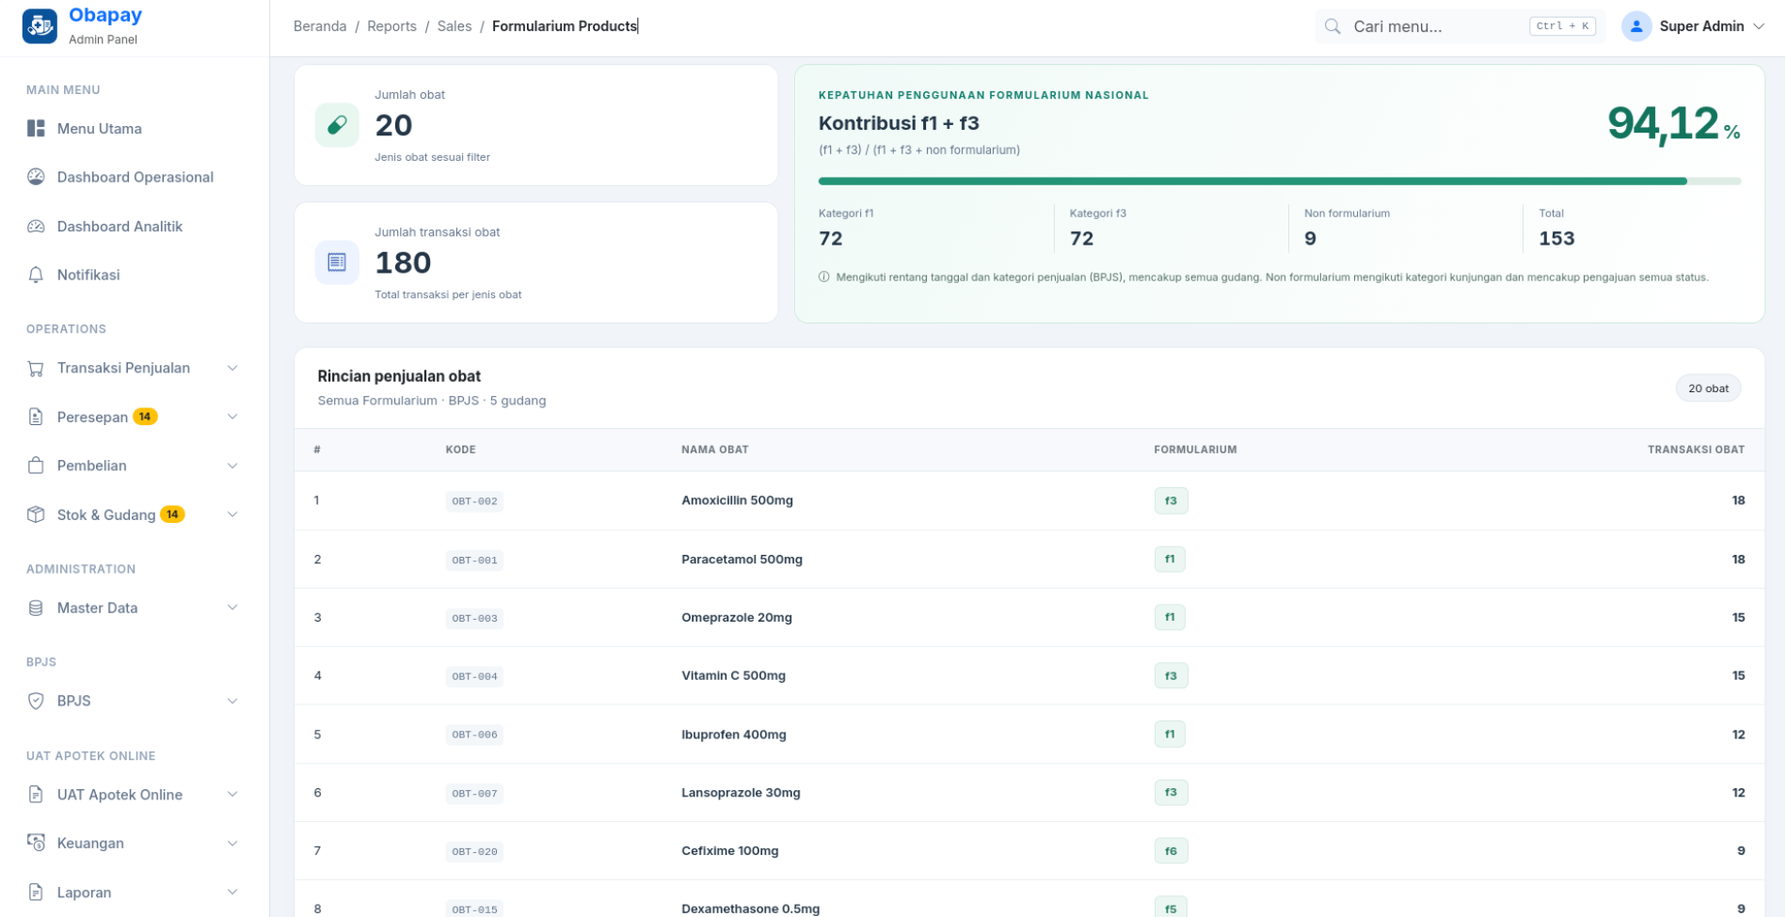
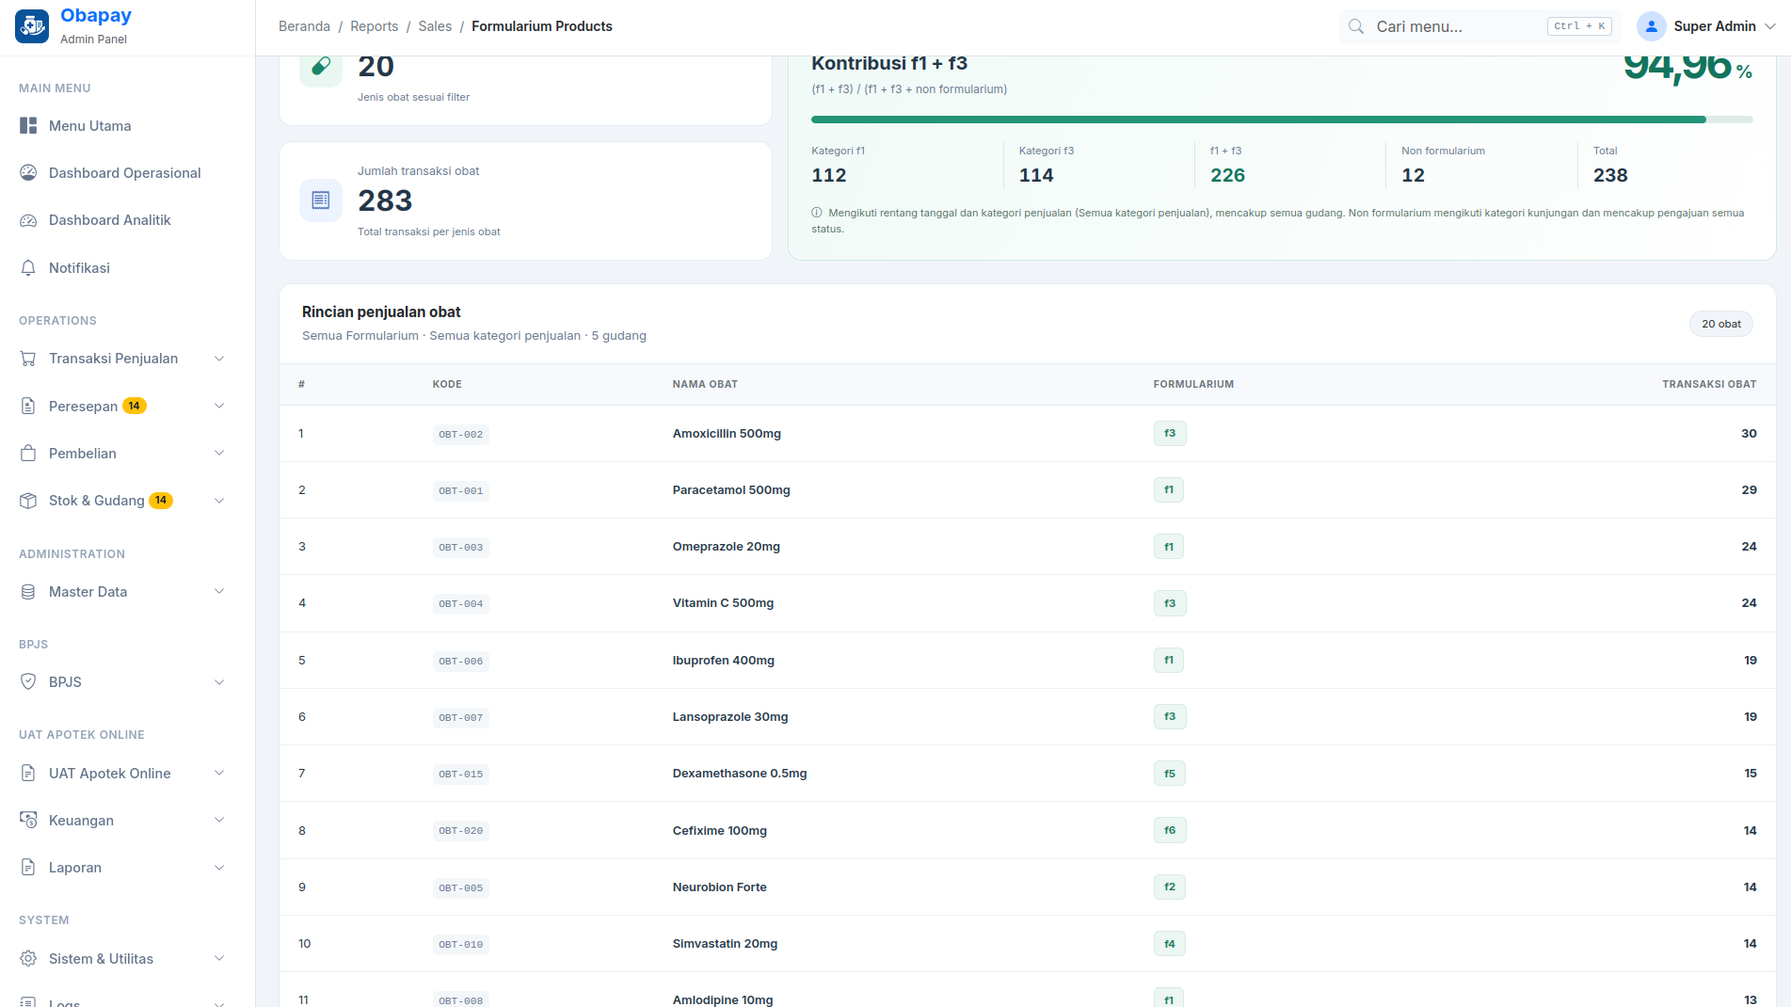
update presentasi

diff --git a/js/config.js b/js/config.js
@@ -30,7 +30,7 @@ const PRESENTER_NOTES = {
     22: "Laporan Resep BPJS & Evaluasi Plafon Obat Kronis: Mengevaluasi kepatuhan nilai nominal resep BPJS terhadap plafon anjuran Rp 35.000 dengan memisahkan tagihan obat kronis (Rp 2,02 Jt) dan non-kronis (Rp 6,98 Jt). Dashboard mendeteksi 75 resep over-plafon dengan total kelebihan biaya Rp 4,36 Jt serta merangkum performa peresepan per DPJP untuk kendali mutu INA-CBGs.",
     23: "Laporan Kepatuhan & Penjualan Obat Formularium: Contoh periode 1–30 November 2026 dengan kategori BPJS, semua formularium, dan 5 gudang menampilkan 20 jenis obat serta 180 transaksi obat. Panel kepatuhan menggunakan rumus (F1 + F3) / (F1 + F3 + non formularium): (72 + 72) / (72 + 72 + 9) = 94,12%. Total 153 pada panel kepatuhan berbeda dari ringkasan 180 transaksi obat. Panel kepatuhan mengikuti periode dan kategori penjualan serta mencakup semua gudang; non formularium mengikuti kategori kunjungan dan mencakup pengajuan semua status. Tabel merinci kode, nama, formularium, dan transaksi tiap obat, dilengkapi cetak dan ekspor Excel.",
     24: "Laporan Response Time Antrian Pasien & SPM: Mengukur kepatuhan SPM Kemenkes dengan rata-rata total waktu 35.4 menit. Resep non-racik tercapai dalam 24.3 menit (target ≤ 30 menit, kepatuhan 83.3%) dan racikan 50.1 menit (target ≤ 60 menit, kepatuhan 66.7%), lengkap dengan analisis titik bottleneck di ruang peracikan.",
-    25: "Evaluasi Penggunaan Antibiotik (Metode WHO ATC/DDD & PPRA): Menguantifikasi penggunaan antibiotik rumah sakit menggunakan standar baku WHO Defined Daily Dose (DDD) per 100 hari rawat inap (patient-days). Mendukung stratifikasi kategori AWaRe (Access, Watch, Reserve) dan program pengendalian resistensi antimikroba (PPRA) untuk mencegah lonjakan kuman kebal obat dan memenuhi indikator akreditasi Starkes.",
+    25: "Laporan DDD Antibiotika: Laporan ini membantu rumah sakit memantau seberapa banyak antibiotik digunakan oleh pasien rawat inap agar pemakaiannya tetap bijak dan aman. Nilai pada layar dihitung otomatis oleh sistem: (1) Mengambil pasien yang pulang pada periode yang dipilih, yaitu 15 pasien dengan total 120 hari rawat inap (LOS) di mana lama rawat dihitung 1 kali per pasien agar tidak berlipat ganda; (2) Menghitung jumlah obat bersih yang dikonsumsi setelah dikurangi retur; (3) Nilai 25,62 per 100 hari rawat berarti dalam setiap 100 hari pasien menginap, rata-rata ada 25–26 hari pasien mengonsumsi dosis harian antibiotik. Informasi ini siap dicetak atau diekspor ke Excel untuk laporan mutu dan komite PPRA.",
     26: "Integrasi ERM & Single Sign-On (SSO): Dokter cukup mengklik tombol 'Resep' pada ERM, sistem mengirimkan identitas dokter, pasien, dan kunjungan secara aman. ObaPay memvalidasi akses dan menyinkronkan data secara otomatis, lalu dokter langsung diarahkan ke form E-Resep dengan konteks yang sudah tersedia tanpa perlu login ulang. Solusi ini memberikan manfaat utama Single Sign-On (SSO), Zero Double Entry, Patient Context Safety, dan Seamless Workflow untuk mempercepat pelayanan rawat jalan.",
     27: "Penjelasan API Peresepan (Interoperabilitas Dua Arah): ObaPay menyediakan konektivitas API yang memungkinkan ERM menyinkronkan data resep lengkap dengan obat dan racikan, memantau progres status pelayanan farmasi secara real-time, mengelola duplikasi resep serta pembatalan dengan otorisasi aman, dan mengakses katalog master obat beserta sisa stok dan informasi DDD. Dilengkapi keamanan RESTful API autentikasi Laravel Sanctum, format data JSON terstruktur, dan arsitektur siap interoperabilitas FHIR / SATUSEHAT.",
     28: "“Mari kita diskusikan bersama: di titik mana proses saat ini paling sering mengalami hambatan, data apa yang paling sulit diperoleh dengan cepat, dan proses apa yang paling layak menjadi prioritas transformasi digital kita?”"
@@ -366,13 +366,13 @@ const SCREENSHOT_CONFIG = [
         "key": "slide24-ddd-antibiotika",
         "slide": 25,
         "file": "slide24-ddd-antibiotika.png",
-        "title": "Evaluasi DDD Antibiotika (Metode WHO & PPRA)",
-        "menu": "Master Data Obat (DDD) & Laporan PPRA",
-        "route": "/medicines",
+        "title": "Laporan DDD Antibiotika (Metode WHO & PPRA)",
+        "menu": "Laporan → Penjualan → DDD Antibiotika",
+        "route": "/reports/sales/antibiotic-ddd",
         "guideBadge": "PPRA & WHO DDD",
         "guideIcon": "pill",
-        "guideTarget": "Master DDD Antibiotik & Evaluasi Konsumsi PPRA",
-        "guideInst": "Ambil screenshot master data obat dengan kolom nilai DDD (Defined Daily Dose) WHO dan laporan konsumsi antibiotik per kategori AWaRe."
+        "guideTarget": "Laporan DDD Antibiotika Rawat Inap (Metode WHO)",
+        "guideInst": "Tampilan laporan DDD Antibiotika dengan filter periode tanggal pulang, total kunjungan (15), total LOS (120 hari), DDD per 100 hari rawat (25,62), dan tabel per item obat."
     }
 ];
 

diff --git a/slides/slide25.html b/slides/slide25.html
@@ -1,8 +1,8 @@
 <div class="slide-content-wrap" data-slide="25">
     <wave-background variant="1"></wave-background>
     <slide-top-meta slide="25" badge="Pengendalian Resistensi: PPRA" icon="pill" speaker="Farmasi Klinis & Mutu RS"></slide-top-meta>
-    <h1 class="slide-heading">Evaluasi Penggunaan Antibiotik: Metode WHO ATC/DDD</h1>
-    <p class="slide-lead">Kuantifikasi penggunaan antibiotik secara terstandar internasional untuk mendukung program PPRA, mencegah resistensi kuman, dan memenuhi standar akreditasi Starkes.</p>
+    <h1 class="slide-heading">Evaluasi Penggunaan Antibiotik (Metode WHO DDD)</h1>
+    <p class="slide-lead">Memantau seberapa banyak antibiotik digunakan oleh pasien rawat inap secara otomatis, akurat, dan mudah dipahami untuk evaluasi mutu rumah sakit.</p>
 
     <!-- Stage Detail & Screenshot Showcase -->
     <div class="grid-2col slide-showcase-16x9" style="margin-top: 14px;">
@@ -11,18 +11,18 @@
                 <span class="icon-svg"><svg>
                         <use href="#icon-pill"></use>
                     </svg></span>
-                Program PPRA & WHO Standard
+                Program PPRA & Standar WHO
             </span>
-            <h3 class="card-title">Metrik Defined Daily Dose (DDD) & Kategori AWaRe</h3>
+            <h3 class="card-title">Pemantauan Pemakaian Antibiotik Rawat Inap</h3>
             <p class="card-body-text" style="margin-bottom: 14px;">
-                <strong>Standardisasi Nilai DDD WHO per Satuan:</strong> Master obat ObaPay mencatat nilai Defined Daily Dose (DDD) resmi dari WHO untuk mengukur densitas konsumsi antibiotik per 100 hari rawat inap (DDD/100 patient-days).<br><br>
-                <strong>Stratifikasi AWaRe (Access, Watch, Reserve):</strong> Memantau penggunaan antibiotik lini pertama (Access) hingga pembatasan ketat antibiotik lini ketiga (Reserve) yang memerlukan otorisasi Tim PPRA.<br><br>
-                <strong>Audit Kuantitatif & Kualitatif PPRA:</strong> Menghasilkan laporan tren konsumsi antibiotik berkala lintas bangsal rawat inap untuk evaluasi peresepan antibiotik profilaksis bedah vs terapi definitif.
+                <strong>Sumber Data Pasien & Hari Rawat:</strong> Berdasarkan tanggal pasien pulang (contoh: 1–30 Nov 2026), sistem mencatat ada <strong>15 pasien</strong> dengan total <strong>120 hari rawat inap (LOS)</strong>. Hari rawat dihitung 1 kali per pasien agar tidak berlipat ganda.<br><br>
+                <strong>Cara Perhitungan Pemakaian Bersih:</strong> Sistem menghitung antibiotik yang digunakan pasien dikurangi obat yang diretur (dikembalikan). Jumlah netto ini dikalikan kekuatan dosis lalu dibandingkan dengan standar dosis harian baku WHO (DDD).<br><br>
+                <strong>Arti Angka 25,62 per 100 Hari Rawat:</strong> Didapat dari total dosis dibagi 120 hari rawat dikali 100. Artinya, dari setiap 100 hari pasien dirawat, ada sekitar <strong>25–26 hari pemakaian dosis antibiotik</strong>. Informasi ini membantu RS memastikan antibiotik digunakan secara bijak dan tidak berlebihan.
             </p>
 
             <div style="background: var(--color-paper); padding: 12px; border-radius: var(--border-radius-sm); font-size: 0.85rem; border: var(--border-width) solid var(--color-ink); box-shadow: var(--shadow-hard-sm); margin-top: auto;">
-                <div><strong>Menu di ObaPay:</strong> <span style="font-family: var(--font-mono);">Master Data Obat (DDD) & Laporan Penjualan Produk</span></div>
-                <div style="margin-top: 4px;"><strong>Route URL:</strong> <code style="color: var(--color-electric); font-weight: 700;">/medicines &bull; /reports/sales/products</code></div>
+                <div><strong>Menu di ObaPay:</strong> <span style="font-family: var(--font-mono);">Laporan → Penjualan → DDD Antibiotika</span></div>
+                <div style="margin-top: 4px;"><strong>Route URL:</strong> <code style="color: var(--color-electric); font-weight: 700;">/reports/sales/antibiotic-ddd</code></div>
             </div>
         </div>
 

diff --git a/slides/slide16.html b/slides/slide16.html
@@ -7,19 +7,19 @@
     <!-- Stage Detail & Screenshot Showcase -->
     <div class="grid-2col slide-showcase-16x9" style="margin-top: 14px;">
         <div class="pzn-card pzn-card-bone">
-            <span class="card-tag tag-purple">
-                <span class="icon-svg"><svg>
-                        <use href="#icon-user-check"></use>
-                    </svg></span>
-                Tahap B.5 — Pelayanan
-            </span>
-            <h3 class="card-title">Penyerahan Obat (Handover) Pasien</h3>
-            <p class="card-body-text" style="margin-bottom: 14px;">
-                <strong>Form Penyerahan & Kontak Penerima:</strong> Sesuai petunjuk pada layar, sistem memvalidasi status <em>Sudah Diserahkan</em>, nama penerima (<em>An. Ainurrahman Jibrani</em>), nomor telepon (<em>0895383050601</em>), dan petugas penyerah (<em>Rosyid</em>).<br><br>
-                <strong>Audit Timestamp Penyerahan (Jam 17:34):</strong> Sesuai petunjuk <em>Jam Di lakukan Penyerahan</em>, sistem merekam jam penyerahan akhir (17:34) sebagai penutup siklus dispensing untuk evaluasi SPM waktu tunggu layanan.<br><br>
-                <strong>Bukti Serah Terima & Cetak Struk:</strong> Dilengkapi tombol aksi <strong>Detail</strong> dan <strong>Cetak</strong> tanda terima obat fisik sebagai bukti serah terima resmi untuk transparansi audit akreditasi RS.
-            </p>
+	<span class="card-tag tag-purple">
+	    <span class="icon-svg"><svg>
+		<use href="#icon-user-check"></use>
+	    </svg></span>
+	    Tahap B.5 — Pelayanan
+	</span>
+	<h3 class="card-title">Penyerahan Obat kepada Pasien</h3>
+	<p class="card-body-text" style="margin-bottom: 14px;">
+	    <strong>Form Penyerahan Obat:</strong> Pada tahap ini, petugas mengisi informasi penyerahan obat<br><br>
 
+	    <strong>Waktu Penyerahan (17:34):</strong> Setelah obat diserahkan, sistem mencatat waktu penyerahan. Catatan waktu ini membantu rumah sakit memantau durasi pelayanan dan mengevaluasi pencapaian standar waktu tunggu (SPM).<br><br>
+
+	</p>
             <div style="background: var(--color-paper); padding: 12px; border-radius: var(--border-radius-sm); font-size: 0.85rem; border: var(--border-width) solid var(--color-ink); box-shadow: var(--shadow-hard-sm); margin-top: auto;">
                 <div><strong>Menu di ObaPay:</strong> <span style="font-family: var(--font-mono);">Transaksi Penjualan → Kasir / Detail Transaksi</span></div>
                 <div style="margin-top: 4px;"><strong>Route URL:</strong> <code style="color: var(--color-electric); font-weight: 700;">/farmasi/sales/{id}</code></div>

diff --git a/slides/slide22.html b/slides/slide22.html
@@ -2,7 +2,7 @@
     <wave-background variant="1"></wave-background>
     <slide-top-meta slide="22" badge="Kendali Biaya: Plafon Resep" icon="shield-check" speaker="Audit Klinis & Finansial"></slide-top-meta>
     <h1 class="slide-heading">Laporan Resep BPJS & Evaluasi Plafon Obat Kronis</h1>
-    <p class="slide-lead">Pemisahan tagihan obat kronis vs non-kronis serta pemantauan resep dokter yang melampaui batas anjuran plafon BPJS (Rp 35.000).</p>
+    <p class="slide-lead">Pemisahan tagihan obat kronis vs non-kronis serta pemantauan resep dokter yang melampaui batas anjuran plafon BPJS.</p>
 
     <!-- Stage Detail & Screenshot Showcase -->
     <div class="grid-2col slide-showcase-16x9" style="margin-top: 14px;">
@@ -15,9 +15,9 @@
             </span>
             <h3 class="card-title">Evaluasi Resep BPJS & Pemisahan Kronis</h3>
             <p class="card-body-text" style="margin-bottom: 14px;">
-                <strong>Pemisahan Tagihan Kronis vs Non-Kronis:</strong> Dashboard secara cerdas memisahkan Tagihan Kronis (<em>Rp 2.020.000</em>) dengan alur klaim tersendiri dari Tagihan Non-Kronis (<em>Rp 6.988.844</em>).<br><br>
-                <strong>Monitoring Melebihi Plafon (Rp 35.000):</strong> Mendeteksi 75 resep yang melebihi ambang batas dengan total selisih biaya non-kronis sebesar <em>Rp 4.363.844</em> (rata-rata over budget Rp 58.185 per resep).<br><br>
-                <strong>Rekapitulasi Kinerja per Dokter (DPJP):</strong> Tabel merinci frekuensi resep melebihi plafon dan total kelebihan biaya per DPJP (seperti <em>Retno N, dr. Sp.A</em> dengan 27 resep) untuk evaluasi kendali mutu dan biaya.
+                <strong>Pemisahan Tagihan Kronis vs Non-Kronis:</strong> Dashboard secara cerdas memisahkan Tagihan Kronis dengan alur klaim tersendiri dari Tagihan Non-Kronis.<br><br>
+                <strong>Monitoring Melebihi Plafon</strong> Mendeteksi 75 resep yang melebihi ambang batas<br><br>
+                <strong>Rekapitulasi Kinerja per Dokter (DPJP):</strong> Tabel merinci frekuensi resep melebihi plafon dan total kelebihan biaya per DPJP
             </p>
 
             <div style="background: var(--color-paper); padding: 12px; border-radius: var(--border-radius-sm); font-size: 0.85rem; border: var(--border-width) solid var(--color-ink); box-shadow: var(--shadow-hard-sm); margin-top: auto;">

diff --git a/slides/slide23.html b/slides/slide23.html
@@ -1,7 +1,7 @@
 <div class="slide-content-wrap" data-slide="23">
     <wave-background variant="2"></wave-background>
     <slide-top-meta slide="23" badge="Tata Kelola Klinis: Formularium RS" icon="clipboard-check" speaker="Komite Farmasi & Terapi (KFT)"></slide-top-meta>
-    <h1 class="slide-heading">Laporan Kepatuhan & Penjualan Obat Formularium</h1>
+    <h1 class="slide-heading">Laporan Kepatuhan Penggunaan Formularium Nasional</h1>
     <p class="slide-lead">Pantau transaksi obat dan kontribusi F1 + F3 terhadap penggunaan formularium nasional berdasarkan periode dan kategori penjualan.</p>
 
     <!-- Stage Detail & Screenshot Showcase -->
@@ -15,7 +15,7 @@
             </span>
             <h3 class="card-title">Kepatuhan Formularium 94,12%</h3>
             <p class="card-body-text" style="margin-bottom: 14px;">
-                <strong>Filter & Ringkasan Penjualan:</strong> Contoh periode 1–30 November 2026, kategori BPJS, semua formularium, dan 5 gudang: <strong>20 jenis obat</strong> dengan <strong>180 transaksi obat</strong>.<br><br>
+                <strong>Filter & Ringkasan Penjualan:</strong> Contoh periode 1–30 November 2026, kategori BPJS, semua formularium: <strong>20 jenis obat</strong> dengan <strong>180 transaksi obat</strong>.<br><br>
                 <strong>Kontribusi F1 + F3:</strong> (72 + 72) / (72 + 72 + 9 non formularium) × 100% = <strong>94,12%</strong>. Total dasar perhitungan kepatuhan: <strong>153</strong>.<br><br>
                 <strong>Rincian per Obat:</strong> Tabel memuat kode, nama, formularium, dan transaksi obat. Amoxicillin 500mg (F3) dan Paracetamol 500mg (F1) masing-masing 18 transaksi. Tersedia cetak dan ekspor Excel.
             </p>

diff --git a/slides/slide24.html b/slides/slide24.html
@@ -15,9 +15,8 @@
             </span>
             <h3 class="card-title">Respon Time Antrian & Deteksi Bottleneck</h3>
             <p class="card-body-text" style="margin-bottom: 14px;">
-                <strong>Kepatuhan SPM Farmasi (76.2%):</strong> Memantau target SPM Kemenkes—resep non-racik realisasi <em>24.3 mnt</em> (target &le; 30 mnt, kepatuhan 83.3%) dan racikan <em>50.1 mnt</em> (target &le; 60 mnt, kepatuhan 66.7%).<br><br>
-                <strong>Rata-Rata Waktu Setiap Tahapan:</strong> Merekam persis durasi pelayanan: <em>Menunggu (7.1 mnt) &rarr; Kasir (4.7 mnt) &rarr; Penyiapan Racik (19.7 mnt) &rarr; Pengecekan (1.9 mnt) &rarr; Penyerahan (5.2 mnt)</em>.<br><br>
-                <strong>Analisis Bottleneck Alur Antrian:</strong> Tombol <em>Analisis Bottleneck</em> mendeteksi porsi waktu paling krusial (seperti waktu racik 41.1% atau revisi resep 9.3 mnt) untuk evaluasi beban kerja staf farmasi.
+                <strong>Kepatuhan SPM Farmasi:</strong> Memantau target SPM(Standart Pelayanan Minimal), resep non-racik dengan (target &le; 30 mnt) dan racikan ( dengan target &le; 60 mnt, kepatuhan).<br><br>
+                <strong>Rata-Rata Waktu Setiap Tahapan:</strong> Merekam persis durasi pelayanan: <em>Menunggu &rarr; Kasir &rarr; Penyiapan Racik &rarr; Pengecekan &rarr; Penyerahan</em>.<br><br>
             </p>
 
             <div style="background: var(--color-paper); padding: 12px; border-radius: var(--border-radius-sm); font-size: 0.85rem; border: var(--border-width) solid var(--color-ink); box-shadow: var(--shadow-hard-sm); margin-top: auto;">

diff --git a/slides/slide17.html b/slides/slide17.html
@@ -15,9 +15,8 @@
             </span>
             <h3 class="card-title">Portal Edukasi Obat Digital Pasien</h3>
             <p class="card-body-text" style="margin-bottom: 14px;">
-                <strong>Portal Edukasi Obat Berbasis Web:</strong> Pasien menerima tautan WhatsApp resmi dari rumah sakit untuk membuka leaflet digital interaktif (seperti panduan <em>Cara Aman Minum Clobazam 10 mg</em>).<br><br>
-                <strong>Peringatan Sangat Penting & Efek Samping:</strong> Menyajikan edukasi obat secara jelas dan terstruktur—larangan stop mendadak, dilarang mengemudi, hindari alkohol, serta gejala efek samping umum.<br><br>
-                <strong>Integrasi Video Tutorial Youtube:</strong> Dilengkapi modul pemutar video <em>"Panduan Penting: Cara Tepat Menggunakan & Menyimpan Obat"</em> serta infografis ramah pasien di ponsel pintar.
+                <strong>Portal Edukasi Obat Berbasis Web:</strong> Pasien menerima tautan WhatsApp resmi dari rumah sakit untuk membuka leaflet digital interaktif<br><br>
+<strong>Video dan Gambar Panduan:</strong> Tersedia video dan gambar panduan yang membantu pasien memahami informasi serta langkah-langkah yang perlu dilakukan dengan lebih mudah.
             </p>
 
             <div style="background: var(--color-paper); padding: 12px; border-radius: var(--border-radius-sm); font-size: 0.85rem; border: var(--border-width) solid var(--color-ink); box-shadow: var(--shadow-hard-sm); margin-top: auto;">

diff --git a/slides/slide19.html b/slides/slide19.html
@@ -15,8 +15,8 @@
             </span>
             <h3 class="card-title">Kalkulasi HPP & Nilai Persediaan</h3>
             <p class="card-body-text" style="margin-bottom: 14px;">
-                <strong>Formula Baku HPP Terbuka:</strong> Menampilkan formula otomatis di dashboard: <em>Persediaan Akhir Lalu (Rp 138,4 Jt) + Pembelian (Rp 55,8 Jt) − Persediaan Akhir Ini (Rp 162,8 Jt) = Total HPP Bulan Ini (Rp 31,45 Jt)</em>.<br><br>
-                <strong>Audit Rincian HPP per Item Obat:</strong> Tabel merinci 35 item obat lengkap dengan stok lalu, kuantitas beli, nilai perolehan beli, stok akhir, dan kontribusi nominal HPP per obat.<br><br>
+                <strong>Formula Baku HPP Terbuka:</strong> Menampilkan formula otomatis di dashboard: <em>Persediaan Akhir Lalu − Persediaan Akhir Ini = Total HPP Bulan Ini</em>.<br><br>
+                <strong>Audit Rincian HPP per Item Obat:</strong> Ada juga rincian per obat, kuantitas beli, nilai perolehan beli, stok akhir, dan kontribusi nominal HPP per obat.<br><br>
                 <strong>Verifikasi Sumber Data & Export:</strong> Dilengkapi tombol verifikasi <em>Sumber Data</em> transaksi, pencetakan berkas, dan fitur <em>Export Excel</em> untuk pelaporan keuangan dan akuntansi.
             </p>
 

diff --git a/slides/slide21.html b/slides/slide21.html
@@ -16,7 +16,6 @@
             <h3 class="card-title">Manajemen Dead Stock & Penyelamatan Aset</h3>
             <p class="card-body-text" style="margin-bottom: 14px;">
                 <strong>Pendeteksian Nol Penjualan (Zero Sales):</strong> Menyaring daftar obat yang tidak memiliki mutasi penjualan sama sekali dalam rentang 90 hari lintas seluruh gudang (Gudang Utama, OK/IBS, Rawat Inap).<br><br>
-                <strong>Valuasi Nilai Aset Terancam (Rp 55,65 Jt):</strong> Mengkalkulasi nilai rupiah inventori mati (pada sampel teridentifikasi 5 item obat senilai Rp 55.650.000 seperti <em>Fibrion</em> dan <em>Fondaparinux</em>).<br><br>
                 <strong>Pemilahan Pembayaran & Aksi Mitigasi:</strong> Memilah status transaksi (seperti label <em>TUNAI</em>) untuk memandu apoteker melakukan negosiasi tukar guling batch ke PBF atau retur barang sebelum ED habis.
             </p>
 

diff --git a/slides/slide20.html b/slides/slide20.html
@@ -16,7 +16,6 @@
             <h3 class="card-title">Monitoring Stok Stagnan & Modal Mandek</h3>
             <p class="card-body-text" style="margin-bottom: 14px;">
                 <strong>Kriteria Ambang Batas 90 Hari:</strong> Menyaring otomatis obat yang memiliki total sisa persediaan lebih besar dari total mutasi penjualannya selama 90 hari terakhir.<br><br>
-                <strong>Kalkulasi Modal Tertahan (Rp 167,7 Jt):</strong> Merangkum akumulasi nilai uang rumah sakit yang mandek di rak obat—pada sampel terdapat 15 obat (3.125 pcs) senilai Rp 167.769.500.<br><br>
                 <strong>Sebaran Multi-Gudang & Komparasi Terjual:</strong> Menampilkan stok lintas unit (Gudang Utama, OK/IBS, Ranap, Rajal) terhadap jumlah obat terjual untuk memandu redistribusi antar depo.
             </p>
 

diff --git a/screenshots/README.md b/screenshots/README.md
@@ -59,7 +59,7 @@ Anda dapat menyematkan tangkapan layar (screenshot) aplikasi **ObaPay** ke dalam
 | **Slide 22** | `slide21-resep-limit-35rb.png` | `Laporan → Penjualan → Evaluasi Resep BPJS & Obat Kronis` | `/reports/sales/doctor-prescription-limits` | Evaluasi kepatuhan nilai nominal resep BPJS (plafon Rp 35rb), pemisahan tagihan kronis vs non-kronis, dan rekapitulasi over-budget per DPJP. |
 | **Slide 23** | `slide22-kepatuhan-formularium.png` | `Laporan → Penjualan → Penjualan Obat Formularium` | `/reports/sales/formularium-products` | Monitoring utilisasi formularium (F1, F2, F3) pada 5 gudang aktif, rekap 35 obat (266 terjual), dan ranking volume pemakaian obat. |
 | **Slide 24** | `slide23-respon-time-spm.png` | `Laporan → Pelayanan → Respon Time Antrian` | `/reports/queues/response-time` | Pencapaian SPM Kemenkes (76.2%), durasi granular per tahapan alur resep (menunggu, racik, cek, serah), dan analisis titik *bottleneck*. |
-| **Slide 25** | `slide24-ddd-antibiotika.png` | `Master Data Obat (DDD) & Laporan PPRA` | `/medicines` | Master nilai Defined Daily Dose (DDD) WHO per satuan obat dan laporan kuantitatif konsumsi antibiotik per kategori AWaRe untuk program PPRA & akreditasi Starkes. |
+| **Slide 25** | `slide24-ddd-antibiotika.png` | `Laporan → Penjualan → DDD Antibiotika` | `/reports/sales/antibiotic-ddd` | Laporan kuantitatif konsumsi antibiotik rawat inap metode WHO (DDD/100 hari rawat), agregat LOS, dan rincian per obat untuk program PPRA & akreditasi Starkes. |
 
 ---
 
